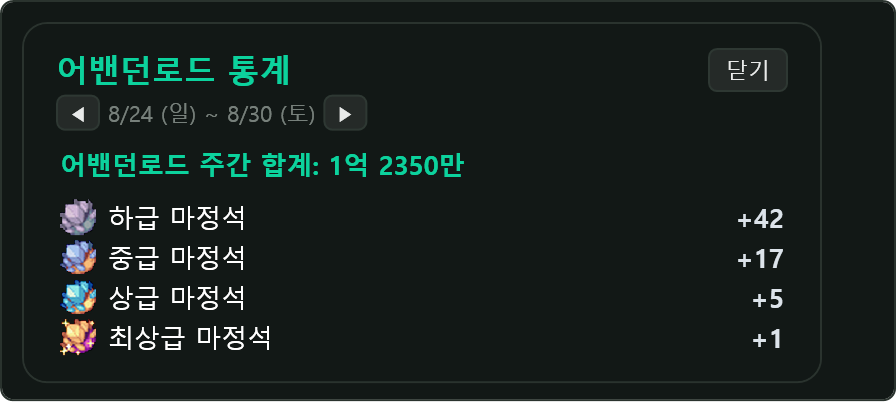
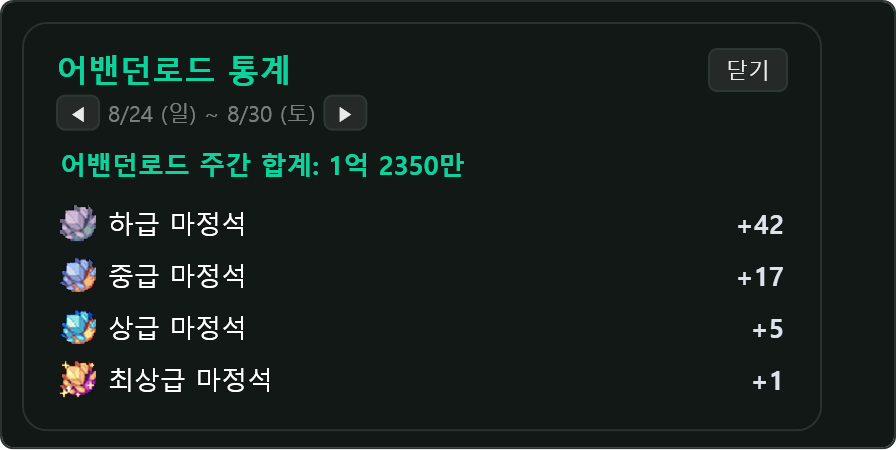
fix: 어밴던로드 통계 행간 확대 + 앱 공통 폰트 적용 누락 보완

diff --git a/Views/Overlays/AbaddonRoadSummaryWindow.xaml b/Views/Overlays/AbaddonRoadSummaryWindow.xaml
@@ -88,7 +88,7 @@
             <ItemsControl Grid.Row="2" ItemsSource="{Binding StoneEntries}">
                 <ItemsControl.ItemTemplate>
                     <DataTemplate>
-                        <DockPanel Margin="2,1,2,1" LastChildFill="True">
+                        <DockPanel Margin="2,4,2,4" LastChildFill="True">
                             <TextBlock Text="{Binding CountText}"
                                        Foreground="{Binding CountForegroundHex}"
                                        FontSize="13"

diff --git a/Views/Overlays/AbaddonRoadSummaryWindow.xaml.cs b/Views/Overlays/AbaddonRoadSummaryWindow.xaml.cs
@@ -51,6 +51,7 @@ namespace TWChatOverlay.Views
             _ = logAnalysisService ?? throw new ArgumentNullException(nameof(logAnalysisService));
 
             InitializeComponent();
+            WindowFontService.Apply(this); // 앱 공통 폰트 적용 (주간 득템 통계 창과 동일)
 
             SettingsHostZOrder.Register(this); // 설정 창이 열려 있으면 그 아래로 표시
             DataContext = this;
